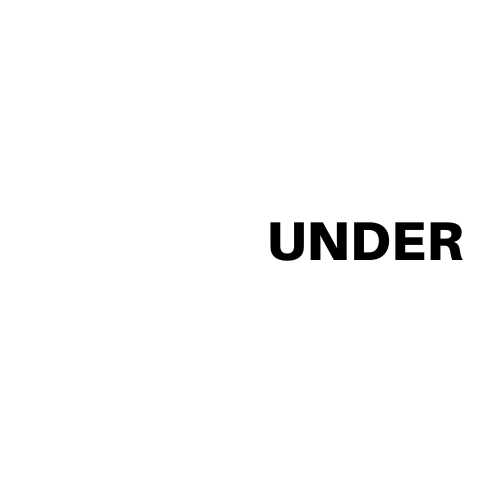
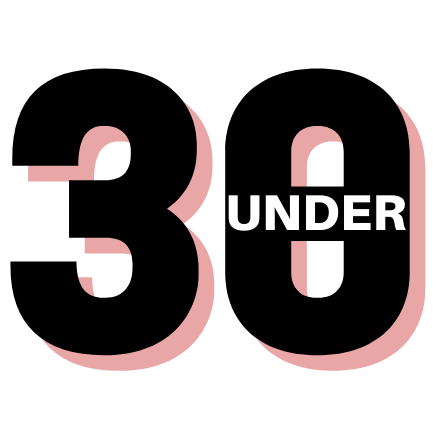
fixes

diff --git a/pages/30-under-30/[category]/index.js b/pages/30-under-30/[category]/index.js
@@ -6,6 +6,8 @@ import Container from '../../../components/global/Container'
 import Footer from '../../../components/global/Footer';
 import Link from 'next/link';
 
+
+// this is the popup component
 function Popup({ currentProfile, setShowPopup }) {
   const handleCloseClick = () => {
     setShowPopup(false);
@@ -53,8 +55,10 @@ function Popup({ currentProfile, setShowPopup }) {
   )
 }
 
+
+// this is the category page rendered dynamically
 export default function Category({ category }) {
-  const categoryProfiles = profiles[category].persons;
+  const categoryProfiles = profiles[category].persons;//all the profiles are  stored here
   const [showPopup, setShowPopup] = useState(false);
   const [currentProfile, setCurrentProfile] = useState({});
   const router = useRouter();
@@ -82,10 +86,11 @@ export default function Category({ category }) {
 
   return (
     <>
+    {/* flex box  */}
       <div className='mt-36 w-11/12 mx-auto flex justify-center flex-wrap md:flex-nowrap flex-row gap-20'>
         <div className='md:w-1/2'>
           <Link href="/30-under-30">
-            <img src="/30u30logo.png" alt="30-under-30" className="mx-auto h-20 md:max-h-28 mt-5 mb-2 hover:cursor-pointer" />
+            <img src="/30u30logo.png" alt="30-under-30" className="mx-auto h-20 md:h-32 mt-0 mb-12 hover:cursor-pointer hover-30" />
           </Link>
           <h1 className='uppercase roboto text-center text-6xl sm:text-8xl xl:text-9xl text-black'>{profiles[category].title}</h1>
           <p className='mt-12 text-center text-xl md:text-3xl'>{profiles[category].description}</p>
@@ -95,6 +100,8 @@ export default function Category({ category }) {
           {categoryProfiles[0].name} for Global Governance Initiative 30 under 30
         </div>
       </div>
+
+{/* grid  */}
       <Container>
         <div className='mt-36 mb-12 grid grid-cols-1 md:grid-cols-2 gap-10'>
           {categoryProfiles.map(profile => (

diff --git a/styles/globals.css b/styles/globals.css
@@ -231,3 +231,7 @@ p>strong::after {
 .roboto {
   font-family: Sofia, sans-serif;
 }
+
+.hover-30:hover {
+  content: url("/30u30.png");
+}
